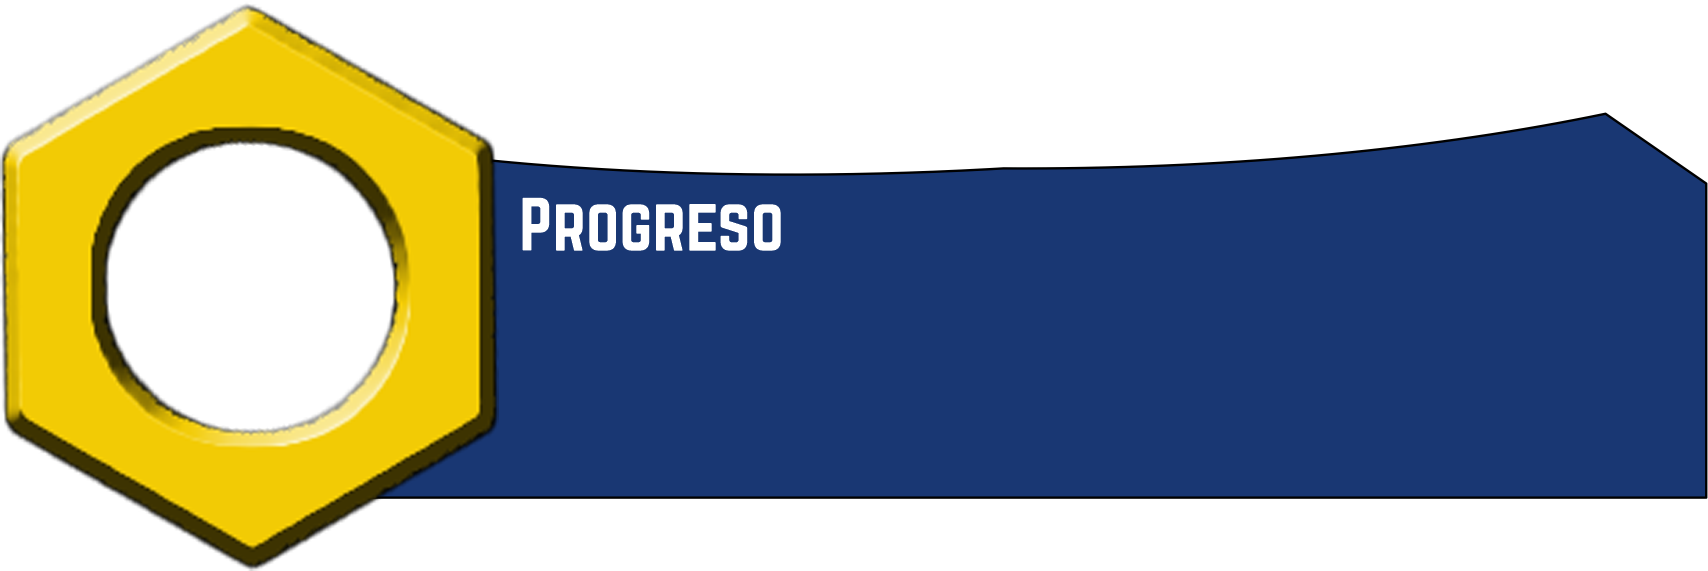
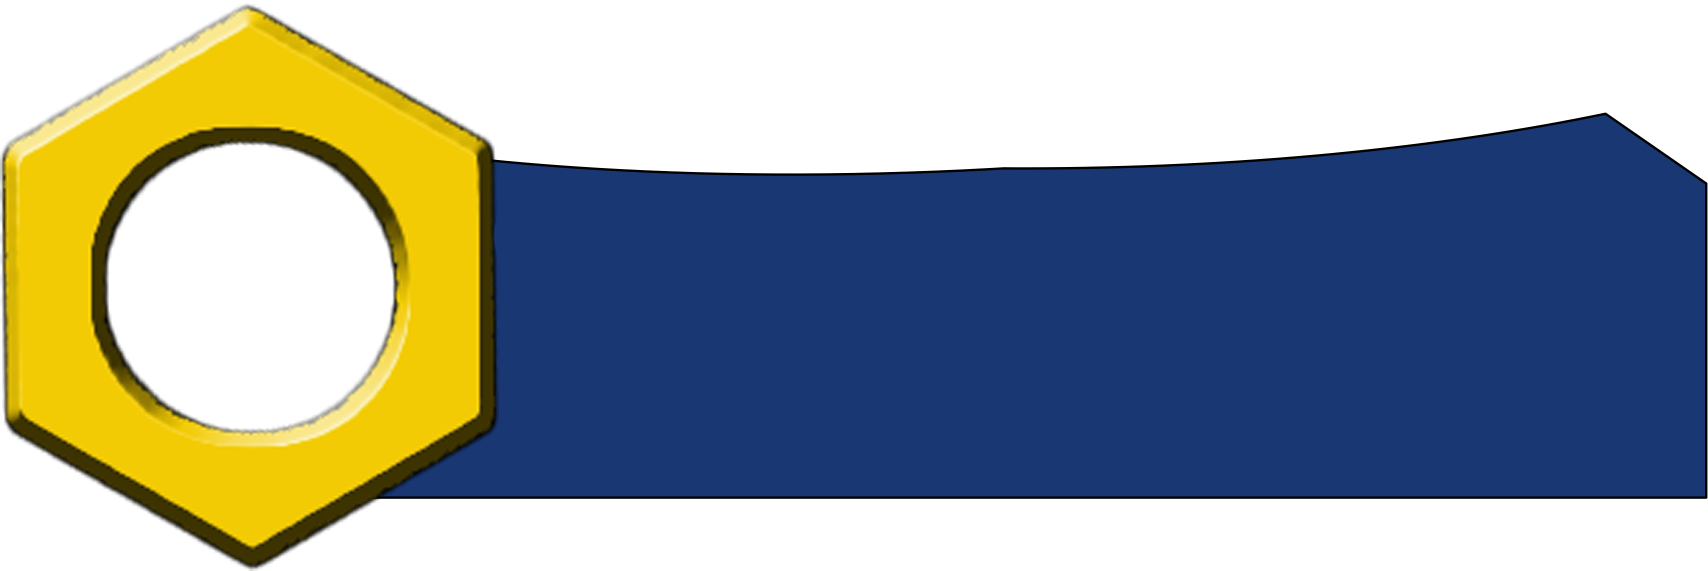
Barra progreso
Se hace avances en la barra de progreso con cambio de color respecto a las ventas

Changed region(s): [[0.2793, 0.3275, 0.4655, 0.4466]]

diff --git a/frontend/src/componentes/Main.jsx b/frontend/src/componentes/Main.jsx
@@ -1,37 +1,84 @@
-import React, {useState} from "react";
+import React, { useEffect, useState} from "react";
 import Constants from 'expo-constants';
-import { SafeAreaView, StyleSheet, TextInput, Text, View, Image } from "react-native";
+import { SafeAreaView, StyleSheet, TextInput, Text, View, Image, Button } from "react-native";
 
 import { progressBar1 } from "../../assets";
+
+import TProgressBar from '../components/TProgressBar';
 
 
 const Main = () => {
 
-    function formatNumber(number){
+    /*function formatNumber(number){
         return new Intl.NumberFormat().format(number);
-    };
+    };*/
+    
+    let meta = 38000000;
+    //const[metaDia, setMetaDia] =useState(2000000);
+    const[ventTotales, setVentTotales] = useState(null);
+    const[progress, setProgress] = useState(null);
+    const[colorBar, setColorBar] = useState(null);
+    const vendedor = ['Vendedor1'];
 
-    const[metaDia, setMetaDia] =useState(2000000);
-    const vendedor = ['Vendedor1']
+    useEffect(()=>{
+        setProgress((ventTotales)/(meta));
+        checkColor();
+    },[ventTotales, progress])
+
+    const checkColor = () =>{
+        if ((progress*100) < 33){
+            setColorBar('#FF0000');
+        }else if((progress*100) >= 33 && (progress*100) < 67){
+            setColorBar('#FAB400');
+        }else{
+            setColorBar('#1DD200');
+        }
+    }
+    
+    const newVenta = () =>{
+        setVentTotales(ventTotales + 1000000);
+    }
+    const quitVenta = () =>{
+        setVentTotales(ventTotales - 1000000);
+    }
 
     return (
         <SafeAreaView style={ { flexGrow: 1, padding: 15}}>
             <View style={ { alignItems: 'center'}}>
                 <Text style={styles.vendedorText}>{vendedor}</Text>
-            </View>
+            </View>            
             <View style={{ width: '100%', aspectRatio: (1710/580)}}>
                 <Image style={{ flex: 1, width: '100%', resizeMode: 'contain'}} source={ progressBar1 }/>
                 <View style={ styles.proBarTextContainer}>
                     <Text style={styles.progressBarText}>
-                        x%
+                        {parseInt(progress*100)}%
                     </Text>
                 </View>
-                <View style={ styles.triangleCorner }>
-                    <Text>
-                        jsjsjsjsjsjsjsjsjsjsjsjsjsjsjsjsjsjsjsjsjsjsjsjs
-                    </Text>
+                <Text style={{position: 'absolute', left: 116, top: 42, fontWeight: 'bold', fontSize: 16,
+                    zIndex: 2, color: 'white',}}>
+                    Progreso
+                </Text>
+                <View style={{position: 'absolute', left: 116, bottom: 32}}>
+                    <TProgressBar pct={progress/*-0.021*/} width={242} height={54} color={colorBar} />
                 </View>
             </View>
+            <Button
+                onPress={newVenta}
+                title="añadir venta"
+                color="#193773"
+                accessibilityLabel="learnMore"
+            />
+            <View>
+                <Text>
+                    "    "
+                </Text>
+            </View>
+            <Button
+                onPress={quitVenta}
+                title="restar venta"
+                color="#193773"
+                accessibilityLabel="prueba"
+            />
         </SafeAreaView>
     )
 }
@@ -56,18 +103,7 @@ const styles = StyleSheet.create({
         color: '#193773',
         fontSize: 22,
         fontWeight: 'bold'
-    },
-    triangleCorner: {
-        width: 100,
-        height: 100,
-        backgroundColor: "transparent",
-        borderStyle: "solid",
-        borderRightWidth: 50,
-        borderTopWidth: 50,
-        borderRightColor: "transparent",
-        borderTopColor: "white",
-        transform: [{ rotate: "180deg" }],
-    },
+    },    
 })
 
 export default Main;

diff --git a/frontend/src/components/TProgressBar.jsx b/frontend/src/components/TProgressBar.jsx
@@ -1,0 +1,42 @@
+import React from 'react';
+import { View, Text } from 'react-native';
+
+const TProgressBar = ({ pct, width, height, color }) => {
+
+  const square = {
+    height: height,
+    width: width,
+    borderRadius: 16,
+    backgroundColor: 'white',
+    overflow: 'hidden',
+  }
+  const progressBar = {
+    top: -125,
+    height: 60,
+    width: (pct*100) + '%',
+    backgroundColor: color,
+    position: 'relative',
+  }
+  const jsjs = {
+    position: 'relative',
+    top: -100,
+    left: -24,
+    height: 120,
+    width: 300,
+    backgroundColor: '#193773',
+    transform: [{ rotate: '168deg' }],
+    zIndex: 2,        
+  }
+  return (
+    /*<View style={progressStyle}>*/
+    <>
+      <View style={square}>
+        <View style={jsjs}/>
+        <View style={progressBar}/>
+      </View>
+    </>
+    /*</View>*/
+  );
+};
+
+export default TProgressBar;
